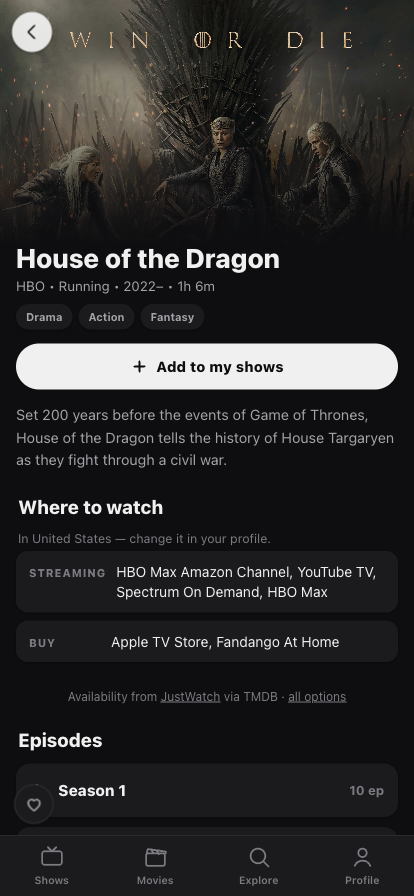
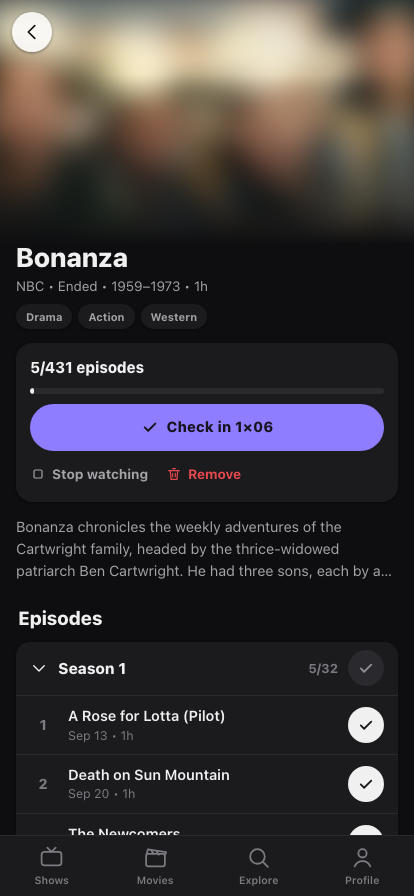
FilmTable and GamesTable: screenshots without studio artwork
New light/dark sets from each app's docs/store/site (same file names, 414x896):
FilmTable now shows Bonanza and other 1950s-60s shows with artwork blurred,
GamesTable open-source games (SuperTuxKart, 0 A.D., Mindustry, Minetest,
Red Eclipse). Alt text and the library caption describe the new images.

The proxy notes now say what the proxies keep - a per-address request count in
memory for a minute - and that the web apps count screen views with Vercel Web
Analytics. FilmTable's TMDB notice uses the wording TMDB's API terms ask for.

diff --git a/products/film-table/index.html b/products/film-table/index.html
@@ -75,8 +75,8 @@
         </div>
 
         <div class="hero-visual phone">
-          <img class="shot-light" src="assets/show-light.png" width="414" height="896" alt="A show page in FilmTable with the poster, genres, an Add to my shows button and where-to-watch options." />
-          <img class="shot-dark" src="assets/show-dark.png" width="414" height="896" alt="A show page in FilmTable with the poster, genres, an Add to my shows button and where-to-watch options. Shown in the app's dark theme." />
+          <img class="shot-light" src="assets/show-light.png" width="414" height="896" alt="The page of Bonanza in FilmTable — NBC, ended, 1959–1973 — with 5 of 431 episodes watched, a Check in 1×06 button, the plot and the first season's episodes, the first two checked off." />
+          <img class="shot-dark" src="assets/show-dark.png" width="414" height="896" alt="The page of Bonanza in FilmTable — NBC, ended, 1959–1973 — with 5 of 431 episodes watched, a Check in 1×06 button, the plot and the first season's episodes, the first two checked off. Shown in the app's dark theme." />
         </div>
       </div>
     </div>
@@ -87,23 +87,23 @@
       <h2 id="look" class="section-title">What it looks like</h2>
       <div class="shots-row">
         <figure>
-          <a class="shot shot-light" href="assets/up-next-light.png" target="_blank" rel="noopener" title="Open full size"><img src="assets/up-next-light.png" width="414" height="896" alt="The Watchlist tab with an Up Next section: each card shows the next episode, such as 1×07 +39, and a one-tap check-in button." loading="lazy" decoding="async" /></a>
-          <a class="shot shot-dark" href="assets/up-next-dark.png" target="_blank" rel="noopener" title="Open full size"><img src="assets/up-next-dark.png" width="414" height="896" alt="The Watchlist tab with an Up Next section: each card shows the next episode, such as 1×07 +39, and a one-tap check-in button. Shown in the app's dark theme." loading="lazy" decoding="async" /></a>
+          <a class="shot shot-light" href="assets/up-next-light.png" target="_blank" rel="noopener" title="Open full size"><img src="assets/up-next-light.png" width="414" height="896" alt="The Watchlist tab with an Up Next section: each card shows the next episode, such as 1×04 of The Lucy Show with 152 more to go, and a one-tap check-in button." loading="lazy" decoding="async" /></a>
+          <a class="shot shot-dark" href="assets/up-next-dark.png" target="_blank" rel="noopener" title="Open full size"><img src="assets/up-next-dark.png" width="414" height="896" alt="The Watchlist tab with an Up Next section: each card shows the next episode, such as 1×04 of The Lucy Show with 152 more to go, and a one-tap check-in button. Shown in the app's dark theme." loading="lazy" decoding="async" /></a>
           <figcaption>Up Next — the episode you're on, and one tap to check in</figcaption>
         </figure>
         <figure>
-          <a class="shot shot-light" href="assets/for-you-light.png" target="_blank" rel="noopener" title="Open full size"><img src="assets/for-you-light.png" width="414" height="896" alt="A For you list where each suggestion carries a line explaining it, such as “Because you watch Breaking Bad and The Bear”." loading="lazy" decoding="async" /></a>
-          <a class="shot shot-dark" href="assets/for-you-dark.png" target="_blank" rel="noopener" title="Open full size"><img src="assets/for-you-dark.png" width="414" height="896" alt="A For you list where each suggestion carries a line explaining it, such as “Because you watch Breaking Bad and The Bear”. Shown in the app's dark theme." loading="lazy" decoding="async" /></a>
+          <a class="shot shot-light" href="assets/for-you-light.png" target="_blank" rel="noopener" title="Open full size"><img src="assets/for-you-light.png" width="414" height="896" alt="A For you list where each suggestion carries a line explaining it, such as “Because you watch The Dick Van Dyke Show and The Beverly Hillbillies”, below a Something like… box for naming titles you have in mind." loading="lazy" decoding="async" /></a>
+          <a class="shot shot-dark" href="assets/for-you-dark.png" target="_blank" rel="noopener" title="Open full size"><img src="assets/for-you-dark.png" width="414" height="896" alt="A For you list where each suggestion carries a line explaining it, such as “Because you watch The Dick Van Dyke Show and The Beverly Hillbillies”, below a Something like… box for naming titles you have in mind. Shown in the app's dark theme." loading="lazy" decoding="async" /></a>
           <figcaption>For you — built from your library, and it says why</figcaption>
         </figure>
         <figure>
-          <a class="shot shot-light" href="assets/search-light.png" target="_blank" rel="noopener" title="Open full size"><img src="assets/search-light.png" width="414" height="896" alt="Search results for “breaking bad”, mixing shows and movies with a type icon, year, network and rating." loading="lazy" decoding="async" /></a>
-          <a class="shot shot-dark" href="assets/search-dark.png" target="_blank" rel="noopener" title="Open full size"><img src="assets/search-dark.png" width="414" height="896" alt="Search results for “breaking bad”, mixing shows and movies with a type icon, year, network and rating. Shown in the app's dark theme." loading="lazy" decoding="async" /></a>
+          <a class="shot shot-light" href="assets/search-light.png" target="_blank" rel="noopener" title="Open full size"><img src="assets/search-light.png" width="414" height="896" alt="Search results for “bonanza”, mixing the show — already in the library — with the films of the same name, each with a type icon, year and, where known, network and rating." loading="lazy" decoding="async" /></a>
+          <a class="shot shot-dark" href="assets/search-dark.png" target="_blank" rel="noopener" title="Open full size"><img src="assets/search-dark.png" width="414" height="896" alt="Search results for “bonanza”, mixing the show — already in the library — with the films of the same name, each with a type icon, year and, where known, network and rating. Shown in the app's dark theme." loading="lazy" decoding="async" /></a>
           <figcaption>Search — shows and movies together, exact matches first</figcaption>
         </figure>
         <figure>
-          <a class="shot shot-light" href="assets/explore-light.png" target="_blank" rel="noopener" title="Open full size"><img src="assets/explore-light.png" width="414" height="896" alt="The Explore tab showing a grid of show posters under Popular this week." loading="lazy" decoding="async" /></a>
-          <a class="shot shot-dark" href="assets/explore-dark.png" target="_blank" rel="noopener" title="Open full size"><img src="assets/explore-dark.png" width="414" height="896" alt="The Explore tab showing a grid of show posters under Popular this week. Shown in the app's dark theme." loading="lazy" decoding="async" /></a>
+          <a class="shot shot-light" href="assets/explore-light.png" target="_blank" rel="noopener" title="Open full size"><img src="assets/explore-light.png" width="414" height="896" alt="The Explore tab opening on Airing tonight: The Simpsons and Marshals on wide cards with network, year, rating and plot." loading="lazy" decoding="async" /></a>
+          <a class="shot shot-dark" href="assets/explore-dark.png" target="_blank" rel="noopener" title="Open full size"><img src="assets/explore-dark.png" width="414" height="896" alt="The Explore tab opening on Airing tonight: The Simpsons and Marshals on wide cards with network, year, rating and plot. Shown in the app's dark theme." loading="lazy" decoding="async" /></a>
           <figcaption>Explore — Airing tonight and Popular this week</figcaption>
         </figure>
       </div>
@@ -161,13 +161,17 @@
       </p>
       <p class="note">
         TMDB does need a key, just not yours, and a key can't be shipped in a browser,
-        so those lookups go through a thin serverless proxy. It passes movie data through — it never sees
-        your library and stores nothing about you. The app and the proxy are hosted on
-        Vercel, which keeps a log of the requests it serves, your IP address among them,
-        for about an hour.
+        so those lookups go through a thin serverless proxy. It passes movie data through —
+        it never sees your library and writes nothing about you anywhere; to stop one
+        address flooding it, it counts requests per IP address in memory for a minute. The
+        app and the proxy are hosted on Vercel, which keeps a log of the requests it serves,
+        your IP address among them, for about an hour. The web app also counts screen views
+        with Vercel Web Analytics — no cookies, only which screen was opened, never a title
+        or a search.
       </p>
       <p class="note">
-        This product uses the TMDB API but is not endorsed or certified by TMDB.
+        This product uses TMDB and the TMDB APIs but is not endorsed, certified, or
+        otherwise approved by TMDB.
       </p>
     </section>
 

diff --git a/products/games-table/index.html b/products/games-table/index.html
@@ -74,8 +74,8 @@
         </div>
 
         <div class="hero-visual phone">
-          <img class="shot-light" src="assets/game-light.png" width="414" height="896" alt="A game page in GamesTable showing platforms, Metacritic score, the play and watch status rows and links to longplays." />
-          <img class="shot-dark" src="assets/game-dark.png" width="414" height="896" alt="A game page in GamesTable showing platforms, Metacritic score, the play and watch status rows and links to longplays. Shown in the app's dark theme." />
+          <img class="shot-light" src="assets/game-light.png" width="414" height="896" alt="The page of SuperTuxKart in GamesTable: platforms, genres and release date, the play, watch and other status rows with Playing selected, and your notes — a score of 9, the PC platform and 34 hours played." />
+          <img class="shot-dark" src="assets/game-dark.png" width="414" height="896" alt="The page of SuperTuxKart in GamesTable: platforms, genres and release date, the play, watch and other status rows with Playing selected, and your notes — a score of 9, the PC platform and 34 hours played. Shown in the app's dark theme." />
         </div>
       </div>
     </div>
@@ -86,23 +86,23 @@
       <h2 id="look" class="section-title">What it looks like</h2>
       <div class="shots-row">
         <figure>
-          <a class="shot shot-light" href="assets/library-light.png" target="_blank" rel="noopener" title="Open full size"><img src="assets/library-light.png" width="414" height="896" alt="The PLAYED tab listing finished games with cover art, platforms, Metacritic score, a personal rating and hours played." loading="lazy" decoding="async" /></a>
-          <a class="shot shot-dark" href="assets/library-dark.png" target="_blank" rel="noopener" title="Open full size"><img src="assets/library-dark.png" width="414" height="896" alt="The PLAYED tab listing finished games with cover art, platforms, Metacritic score, a personal rating and hours played. Shown in the app's dark theme." loading="lazy" decoding="async" /></a>
-          <figcaption>Played — your own score and hours, next to Metacritic's</figcaption>
+          <a class="shot shot-light" href="assets/library-light.png" target="_blank" rel="noopener" title="Open full size"><img src="assets/library-light.png" width="414" height="896" alt="The PLAYING tab with Mindustry, 0 A.D. and SuperTuxKart, each with cover art, platforms, genres and hours played, and a personal score of 9/10 on SuperTuxKart." loading="lazy" decoding="async" /></a>
+          <a class="shot shot-dark" href="assets/library-dark.png" target="_blank" rel="noopener" title="Open full size"><img src="assets/library-dark.png" width="414" height="896" alt="The PLAYING tab with Mindustry, 0 A.D. and SuperTuxKart, each with cover art, platforms, genres and hours played, and a personal score of 9/10 on SuperTuxKart. Shown in the app's dark theme." loading="lazy" decoding="async" /></a>
+          <figcaption>Playing — the hours so far, and your own score</figcaption>
         </figure>
         <figure>
-          <a class="shot shot-light" href="assets/watch-light.png" target="_blank" rel="noopener" title="Open full size"><img src="assets/watch-light.png" width="414" height="896" alt="The WATCH tab split into Watching, Want to watch and Watched sections with filter chips above." loading="lazy" decoding="async" /></a>
-          <a class="shot shot-dark" href="assets/watch-dark.png" target="_blank" rel="noopener" title="Open full size"><img src="assets/watch-dark.png" width="414" height="896" alt="The WATCH tab split into Watching, Want to watch and Watched sections with filter chips above. Shown in the app's dark theme." loading="lazy" decoding="async" /></a>
+          <a class="shot shot-light" href="assets/watch-light.png" target="_blank" rel="noopener" title="Open full size"><img src="assets/watch-light.png" width="414" height="896" alt="The WATCH tab with filter chips above Watching and Want to watch sections — Minetest being watched, Red Eclipse saved to watch." loading="lazy" decoding="async" /></a>
+          <a class="shot shot-dark" href="assets/watch-dark.png" target="_blank" rel="noopener" title="Open full size"><img src="assets/watch-dark.png" width="414" height="896" alt="The WATCH tab with filter chips above Watching and Want to watch sections — Minetest being watched, Red Eclipse saved to watch. Shown in the app's dark theme." loading="lazy" decoding="async" /></a>
           <figcaption>The watch track — games you follow without playing</figcaption>
         </figure>
         <figure>
-          <a class="shot shot-light" href="assets/for-you-light.png" target="_blank" rel="noopener" title="Open full size"><img src="assets/for-you-light.png" width="414" height="896" alt="A For you list where each game carries a line such as “Because you played The Witcher 3: Wild Hunt”." loading="lazy" decoding="async" /></a>
-          <a class="shot shot-dark" href="assets/for-you-dark.png" target="_blank" rel="noopener" title="Open full size"><img src="assets/for-you-dark.png" width="414" height="896" alt="A For you list where each game carries a line such as “Because you played The Witcher 3: Wild Hunt”. Shown in the app's dark theme." loading="lazy" decoding="async" /></a>
+          <a class="shot shot-light" href="assets/for-you-light.png" target="_blank" rel="noopener" title="Open full size"><img src="assets/for-you-light.png" width="414" height="896" alt="A For you list where each game carries a line such as “Because you played Xonotic”, next to its Metacritic score." loading="lazy" decoding="async" /></a>
+          <a class="shot shot-dark" href="assets/for-you-dark.png" target="_blank" rel="noopener" title="Open full size"><img src="assets/for-you-dark.png" width="414" height="896" alt="A For you list where each game carries a line such as “Because you played Xonotic”, next to its Metacritic score. Shown in the app's dark theme." loading="lazy" decoding="async" /></a>
           <figcaption>For you — computed on your device, with its reasons</figcaption>
         </figure>
         <figure>
-          <a class="shot shot-light" href="assets/search-light.png" target="_blank" rel="noopener" title="Open full size"><img src="assets/search-light.png" width="414" height="896" alt="Search results for “zelda” with cover art, year, platforms and Metacritic scores." loading="lazy" decoding="async" /></a>
-          <a class="shot shot-dark" href="assets/search-dark.png" target="_blank" rel="noopener" title="Open full size"><img src="assets/search-dark.png" width="414" height="896" alt="Search results for “zelda” with cover art, year, platforms and Metacritic scores. Shown in the app's dark theme." loading="lazy" decoding="async" /></a>
+          <a class="shot shot-light" href="assets/search-light.png" target="_blank" rel="noopener" title="Open full size"><img src="assets/search-light.png" width="414" height="896" alt="Search results for “supertuxkart”: the game with its cover, year and platforms, marked Playing because it is already in the library." loading="lazy" decoding="async" /></a>
+          <a class="shot shot-dark" href="assets/search-dark.png" target="_blank" rel="noopener" title="Open full size"><img src="assets/search-dark.png" width="414" height="896" alt="Search results for “supertuxkart”: the game with its cover, year and platforms, marked Playing because it is already in the library. Shown in the app's dark theme." loading="lazy" decoding="async" /></a>
           <figcaption>Search — every platform, not just the one store</figcaption>
         </figure>
       </div>
@@ -156,10 +156,12 @@
       <p class="note">
         All three go through a thin serverless proxy, for two boring reasons:
         the RAWG and IGDB keys can't be shipped in a browser, and Steam sends no CORS
-        headers at all. The proxy passes metadata through — it never sees your library
-        and stores nothing about you. The app and the proxy are hosted on Vercel, which
-        keeps a log of the requests it serves, your IP address among them, for about an
-        hour.
+        headers at all. The proxy passes metadata through — it never sees your library and
+        writes nothing about you anywhere; to stop one address flooding it, it counts
+        requests per IP address in memory for a minute. The app and the proxy are hosted on
+        Vercel, which keeps a log of the requests it serves, your IP address among them, for
+        about an hour. The web app also counts screen views with Vercel Web Analytics — no
+        cookies, only which screen was opened, never a game's name or a search.
       </p>
     </section>
 
